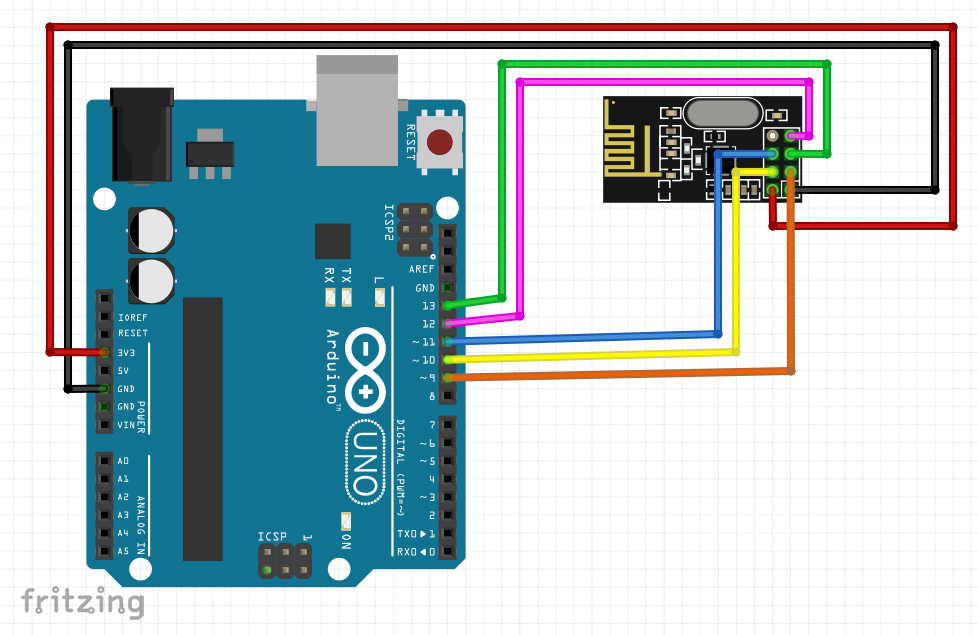
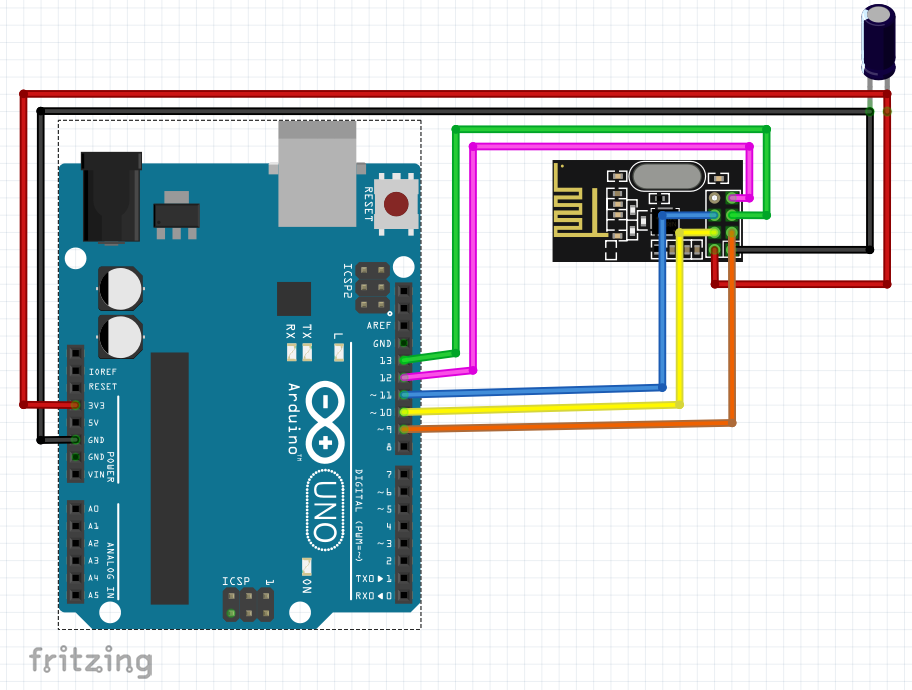
added decoupling cap

diff --git a/nRF24/README.md b/nRF24/README.md
@@ -18,4 +18,6 @@ The RF24 radios use the [SPI protocol](https://www.arduino.cc/en/reference/SPI) 
   * CSN
 
 For the examples in this GitHub Repo, I'll be using this hookup schematic: 
-<img src="https://raw.githubusercontent.com/mrsoltys/GEEN1400/master/Buttons/Schematics/radioHookup.png" width="400">
+<img src="https://raw.githubusercontent.com/mrsoltys/GEEN1400/master/nRF24/radioHookup.png" width="400">
+
+The only important note here is [some hookup guides](https://www.mysensors.org/build/connect_radio) suggest using a 4.7µF to 47µF decoupling capacitor accorss power and ground. This doesn't hurt, and seems to be a best pratice that could save you a headache down the line.
